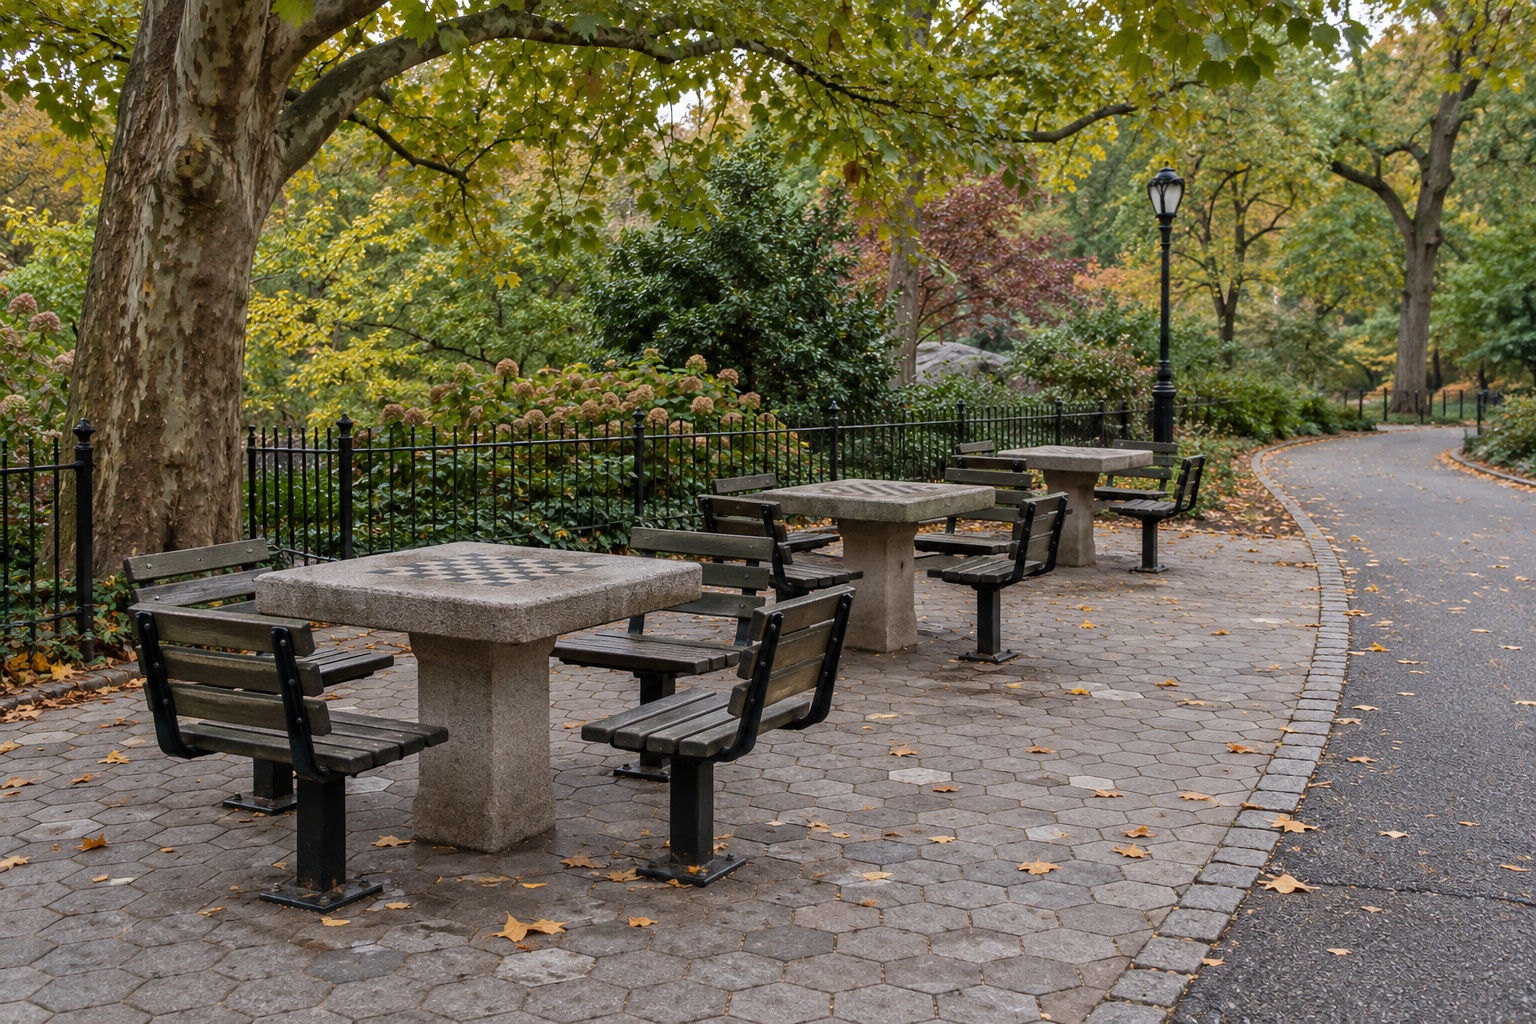
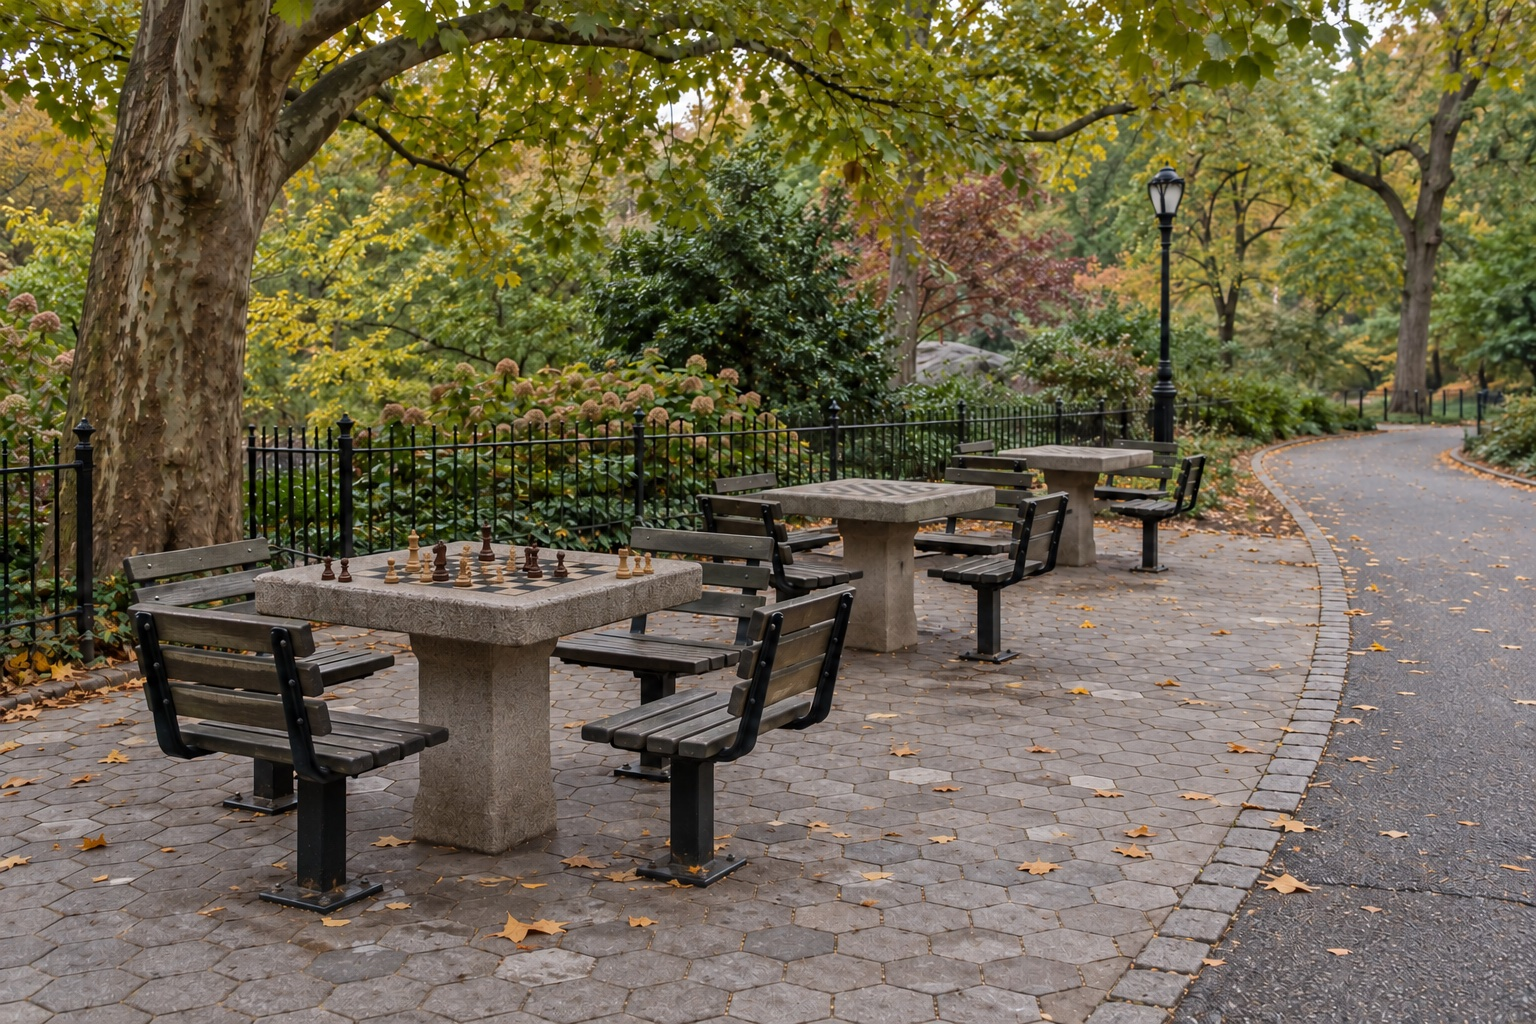
Round 8/9 art: chess game baked into the park photo; gentle per-pack living rooms (cn, mx, in; day and evening); assets rebuilt

diff --git a/image_generation/193_bg_park_board_day_A.md b/image_generation/193_bg_park_board_day_A.md
@@ -11,7 +11,7 @@ depends_on: ["bg_park_day_A"]
 attach: "out/bg_park_day_A.png"
 save_image_as: "out/bg_park_board_day_A.png"
 save_prompt_used_as: "out/bg_park_board_day_A.prompt.txt"
-status: "pending"
+status: "done"
 ---
 
 # bg_park_board_day_A

diff --git a/image_generation/194_bg_home_cn_day_A.md b/image_generation/194_bg_home_cn_day_A.md
@@ -11,7 +11,7 @@ depends_on: ["bg_home_tv_day_A"]
 attach: "out/bg_home_tv_day_A.png"
 save_image_as: "out/bg_home_cn_day_A.png"
 save_prompt_used_as: "out/bg_home_cn_day_A.prompt.txt"
-status: "pending"
+status: "done"
 ---
 
 # bg_home_cn_day_A

diff --git a/image_generation/195_bg_home_cn_eve_A.md b/image_generation/195_bg_home_cn_eve_A.md
@@ -11,7 +11,7 @@ depends_on: ["bg_home_tv_eve_A"]
 attach: "out/bg_home_tv_eve_A.png"
 save_image_as: "out/bg_home_cn_eve_A.png"
 save_prompt_used_as: "out/bg_home_cn_eve_A.prompt.txt"
-status: "pending"
+status: "done"
 ---
 
 # bg_home_cn_eve_A

diff --git a/image_generation/196_bg_home_mx_day_A.md b/image_generation/196_bg_home_mx_day_A.md
@@ -11,7 +11,7 @@ depends_on: ["bg_home_tv_day_A"]
 attach: "out/bg_home_tv_day_A.png"
 save_image_as: "out/bg_home_mx_day_A.png"
 save_prompt_used_as: "out/bg_home_mx_day_A.prompt.txt"
-status: "pending"
+status: "done"
 ---
 
 # bg_home_mx_day_A

diff --git a/image_generation/197_bg_home_mx_eve_A.md b/image_generation/197_bg_home_mx_eve_A.md
@@ -11,7 +11,7 @@ depends_on: ["bg_home_tv_eve_A"]
 attach: "out/bg_home_tv_eve_A.png"
 save_image_as: "out/bg_home_mx_eve_A.png"
 save_prompt_used_as: "out/bg_home_mx_eve_A.prompt.txt"
-status: "pending"
+status: "done"
 ---
 
 # bg_home_mx_eve_A

diff --git a/image_generation/198_bg_home_in_day_A.md b/image_generation/198_bg_home_in_day_A.md
@@ -11,7 +11,7 @@ depends_on: ["bg_home_tv_day_A"]
 attach: "out/bg_home_tv_day_A.png"
 save_image_as: "out/bg_home_in_day_A.png"
 save_prompt_used_as: "out/bg_home_in_day_A.prompt.txt"
-status: "pending"
+status: "done"
 ---
 
 # bg_home_in_day_A

diff --git a/image_generation/199_bg_home_in_eve_A.md b/image_generation/199_bg_home_in_eve_A.md
@@ -11,7 +11,7 @@ depends_on: ["bg_home_tv_eve_A"]
 attach: "out/bg_home_tv_eve_A.png"
 save_image_as: "out/bg_home_in_eve_A.png"
 save_prompt_used_as: "out/bg_home_in_eve_A.prompt.txt"
-status: "pending"
+status: "done"
 ---
 
 # bg_home_in_eve_A
